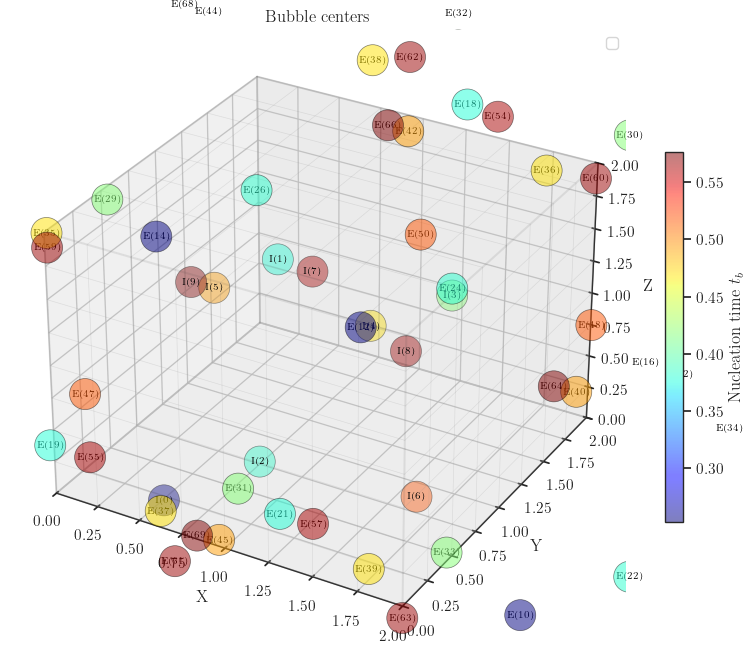
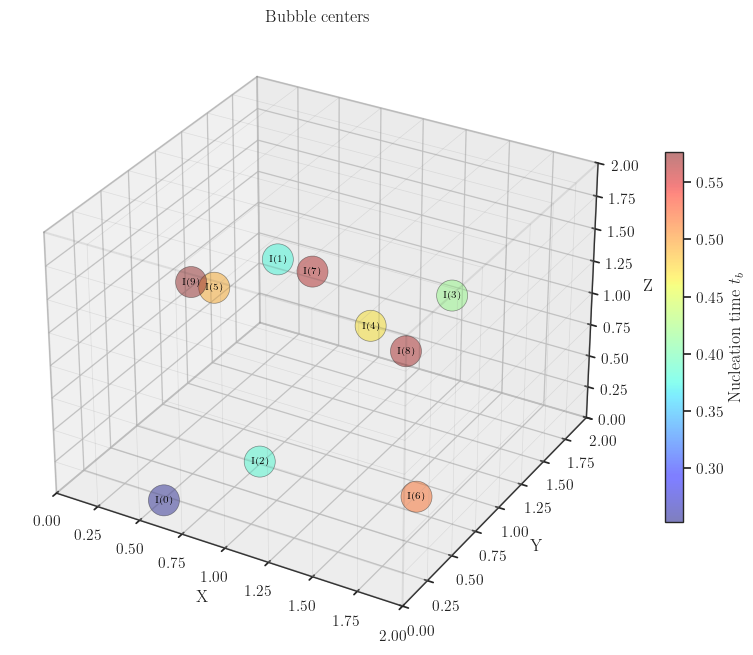
docs: update lattice_bubbles

diff --git a/README.md b/README.md
@@ -54,13 +54,9 @@ Also from the field evolution, we can compute the surface tension of the wall as
 + [lattice bubbles](./docs/lattice_bubbles.md): Here we show how to define a lattice (Cartesian or Spherical), attach the bubbles into a lattice and generate the exterior bubbles via boundary conditions (currently support "periodic" and "reflection" boundary conditions).
 One can also define an Isometry3 transformation (i.e spatial translation + rotation) and apply to the whole lattice+bubbles system.
 
-| Bubbles centers inside a cartesian lattice                                                 | Bubbles at fixed time with periodic boundary condition                                           |
+| Bubbles in a cartesian lattice with periodic boundary condition                            | Bubbles in a spherical lattice with reflection boundary condition                                |
 | ------------------------------------------------------------------------------------------ | ------------------------------------------------------------------------------------------------ |
-| ![bubble centers](./docs/examples/figures/many_bubbles/many_bubbles_centers_cartesian.png) | ![bubble at fixed time](./docs/examples/figures/many_bubbles/many_bubbles_at_time_cartesian.png) |
-
-| Bubbles centers inside a spherical lattice                                                 | Bubbles at fixed time with reflection boundary condition                                         |
-| ------------------------------------------------------------------------------------------ | ------------------------------------------------------------------------------------------------ |
-| ![bubble centers](./docs/examples/figures/many_bubbles/many_bubbles_centers_spherical.png) | ![bubble at fixed time](./docs/examples/figures/many_bubbles/many_bubbles_at_time_spherical.png) |
+| ![bubble centers](./docs/examples/figures/many_bubbles/many_bubbles_at_time_cartesian.png) | ![bubble at fixed time](./docs/examples/figures/many_bubbles/many_bubbles_at_time_spherical.png) |
 
 + [generalized bulk-flow](./docs/generalized_bulkflow.md): Here we illustrate how to approximate the GW spectrum using generalized bulk-flow scheme, with the input being the bubbles configuration (i.e a list of four-vectors $(t_c, x_c, y_c, z_c)$ of the center of the nucleated bubbles).
 

diff --git a/docs/lattice_bubbles.md b/docs/lattice_bubbles.md
@@ -1,5 +1,30 @@
 # Bubbles on a Lattice
 
+In order to perform the following checks
+
++ All *bubbles_interior* in a configuration are inside a defined lattice,
++ All *bubbles_exterior* in a configuration are outside a defined lattice,
++ No bubble in *bubbles_interior* is inside another bubbles in either *bubbles_interior* or *bubbles_exterior*,
+
+we need a construction of `LatticeBubbles` corresponding to a lattice and started to add bubbles (e.g loading from input files) or nucleate bubbles using a nucleation strategy.
+The exterior bubbles can be generated if we impose a boundary condition.
+
+The built-in lattices are:
+
++ `ParallelepipedLattice`, which is initialized with an origin and a basis vectors.
++ `CartesianLattice`: similar construction compared to `ParallelepipedLattice`, but all the basis vectors are required to be orthogonal.
++ `SphericalLattice`: initialized with a center and a radius.
+
+The supported boundary conditions are:
+
++ `PeriodicBoundaryCondition`, which only apply to `ParallelepipedLattice` and `CartesianLattice`.
++ `ReflectionBoundaryCondition`, which is available for all three built-in lattices.
+
+The supported nucleation strategies are
+
++ `SpontaneousNucleation`: Nucleate a fixed number of bubbles inside a lattice at the same time.
++ `FixedRateNucleation`: Nucleate the bubbles with a fixed rate $\Gamma$ (i.e fixed number of bubbles in a unit spacetime volume). The nucleation stop if no remaining volume of the lattice is outside all of the bubbles.
+
 ## Example code
 
 An example of creating a lattice, attaching with bubbles_interior and do various verifications (bubbles causality, bubbles_interior outside of a given lattice, ...) as well as performing Isometry3 transformations on both the lattice and the bubbles can be found at [lattice_bubbles.py](./examples/lattice_bubbles.py)
